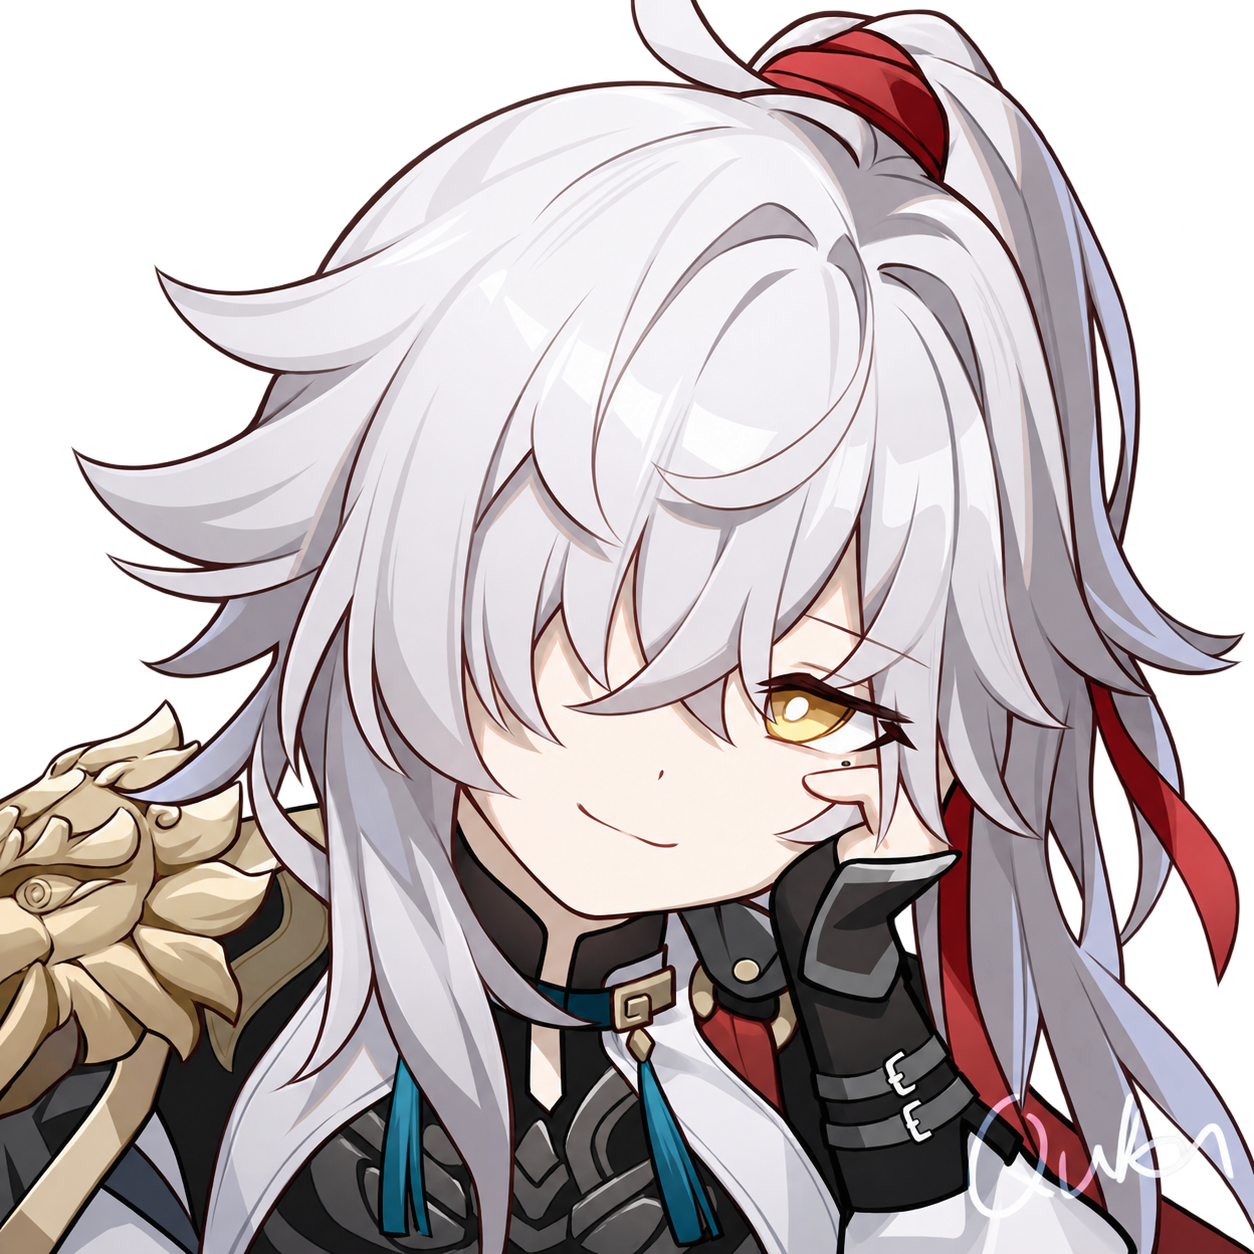
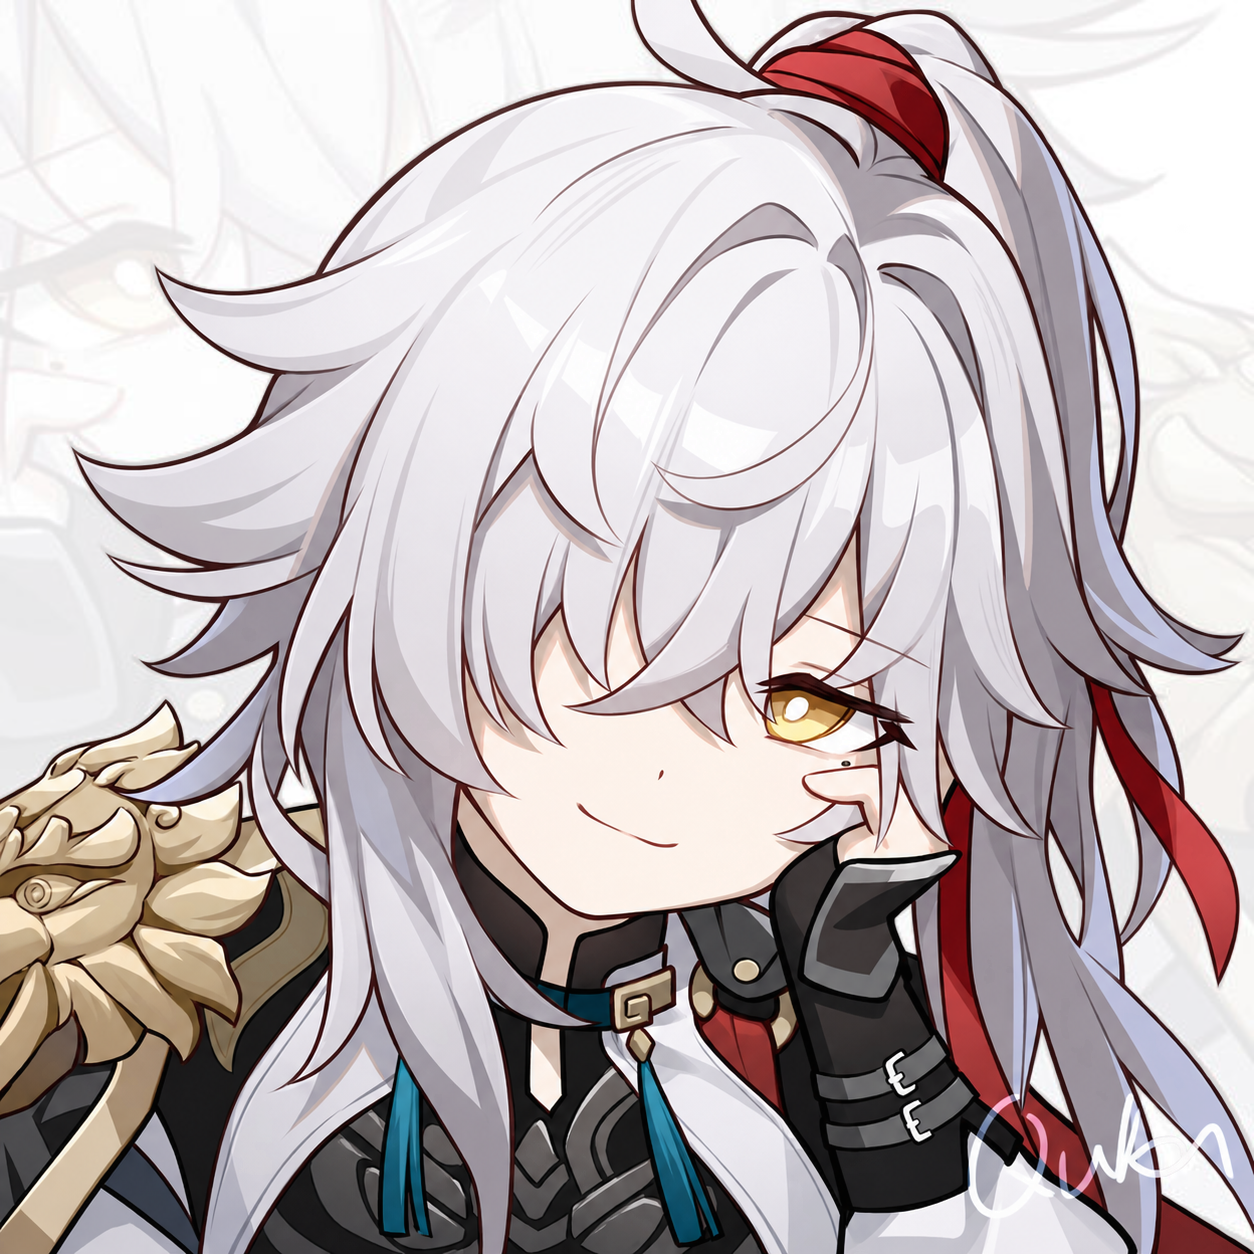
chore: 清理多余素材

diff --git a/tests/test_app/test_theme_switching.py b/tests/test_app/test_theme_switching.py
@@ -4,13 +4,11 @@ from pathlib import Path
 from unittest.mock import Mock
 
 import pytest
-from PySide6.QtCore import QPoint, Qt
-from PySide6.QtGui import QIcon, QImage, QPainter, QPixmap, QRegion
-from PySide6.QtWidgets import QWidget
+from PySide6.QtCore import Qt
+from PySide6.QtGui import QIcon, QPixmap
 from qfluentwidgets import Theme, isDarkTheme, setTheme
 
-from app.common.theme_assets import portrait_artwork, portrait_texture, themed_icon_path
-from app.components.portrait_label import PortraitLabel
+from app.common.theme_assets import portrait_artwork
 from module.config import cfg
 from tests.test_app.test_language_switch import window, switch_language
 
@@ -134,12 +132,21 @@ def window_size_case(request, monkeypatch):
 @pytest.mark.parametrize('window_size_case', [
     ('size', None, 640), ('size', 680, 680), ('none', None, 640),
 ], indirect=True)
-def test_default_size_memory_and_scrollable_navigation(window_size_case, window):
+def test_default_size_memory_and_navigation(window_size_case, window):
     assert window.height() == window_size_case
     assert window.minimumHeight() == 640
     navigation = window.navigationInterface
-    for route in ('homeInterface', 'helpInterface', 'warpInterface', 'toolsInterface', 'workflowInterface'):
-        assert navigation.widget(route).parentWidget() is navigation.scrollWidget
+    rectangles = []
+    for route in ('homeInterface', 'helpInterface', 'warpInterface', 'toolsInterface', 'workflowInterface',
+                  'startGameButton', 'logInterface', 'avatar', 'settingInterface'):
+        widget = navigation.widget(route)
+        rectangle = widget.rect().translated(widget.mapTo(navigation, widget.rect().topLeft()))
+        assert navigation.rect().contains(rectangle), route
+        # Upstream's compact layout permits touching/overlapping button edges;
+        # each entry must remain fully visible with an unobstructed click center.
+        assert not any(rectangle.contains(other.center()) or other.contains(rectangle.center())
+                       for other in rectangles), route
+        rectangles.append(rectangle)
     assert 'themeButton' not in navigation.items
 
 
@@ -153,8 +160,7 @@ def test_every_task_portrait_and_window_icon_follow_dark_theme(window, qtbot):
     for (widget, *_), original, action in zip(page._task_cards, originals, actions):
         dark = widget.iconWidget.pixmap().toImage()
         assert dark != original
-        assert dark.hasAlphaChannel() and dark.pixelColor(0, 0).alpha() < 20
-        assert not widget.iconWidget._pattern.isNull()
+        assert dark.hasAlphaChannel() and dark.pixelColor(0, 0).alpha() < 40
         assert widget.action is action
     assert window.windowIcon().pixmap(32, 32).toImage().pixelColor(0, 0).alpha() == 0
     assert window.windowIcon().pixmap(32, 32).toImage() == QIcon('./assets/logo/March7th.ico').pixmap(32, 32).toImage()
@@ -162,51 +168,23 @@ def test_every_task_portrait_and_window_icon_follow_dark_theme(window, qtbot):
         './assets/logo/March7th.ico').pixmap(window.titleBar.iconLabel.size()).toImage()
     page.refreshBackendTasks()
     for widget, *_ in page._task_cards:
-        assert not widget.iconWidget._pattern.isNull()
-        assert widget.iconWidget.pixmap().toImage().pixelColor(0, 0).alpha() < 20
+        assert widget.iconWidget.pixmap().toImage().pixelColor(0, 0).alpha() < 40
     setTheme(Theme.LIGHT)
     assert [widget.iconWidget.pixmap().toImage() for widget, *_ in page._task_cards] == originals
-    assert all(widget.iconWidget._pattern.isNull() for widget, *_ in page._task_cards)
     assert window.titleBar.iconLabel.pixmap().toImage() == QIcon(
         './assets/logo/March7th.ico').pixmap(window.titleBar.iconLabel.size()).toImage()
 
 
-def test_pattern_keeps_coordinates_and_original_tones_without_opaque_background(qtbot):
-    """Keep a dark marker darker than the light field, without moving it."""
-    reference = QPixmap(100, 100)
-    reference.fill(Qt.GlobalColor.white)
-    painter = QPainter(reference)
-    painter.fillRect(10, 20, 20, 20, Qt.GlobalColor.gray)
-    painter.end()
-    foreground = QPixmap(100, 100)
-    foreground.fill(Qt.GlobalColor.transparent)
-    label = PortraitLabel()
-    qtbot.addWidget(label)
-    label.resize(100, 100)
-    label.setArtwork(foreground, portrait_texture(reference))
-    rendered = QImage(100, 100, QImage.Format.Format_ARGB32_Premultiplied)
-    rendered.fill(Qt.GlobalColor.transparent)
-    painter = QPainter(rendered)
-    label.render(painter, QPoint(), QRegion(), QWidget.RenderFlag.DrawChildren)
-    painter.end()
-    marker = rendered.pixelColor(15, 25)
-    background = rendered.pixelColor(0, 0)
-    assert 0 < marker.alpha() <= 15 and 0 < background.alpha() <= 15
-    assert marker.lightness() < background.lightness()
-    assert rendered.pixelColor(35, 25) == background
-    assert rendered.pixelColor(15, 45) == background
-
-
-
-def test_bundled_artwork_is_loadable_and_cutouts_are_transparent(qtbot):
+def test_bundled_artwork_is_loadable_and_baked_backgrounds_are_translucent(qtbot):
     portraits = [f'./assets/app/images/{name}.jpg' for name in (
         'March7th', 'JingYuan', 'Yanqing', 'Herta', 'SilverWolf', 'Bronya',
     )]
     for source in portraits:
         original = QPixmap(source)
-        dark = QPixmap(themed_icon_path(source, True))
+        dark = portrait_artwork(source, True)
         assert not original.isNull(), source
         assert not dark.isNull() and dark.hasAlphaChannel(), source
+        assert 0 < dark.toImage().pixelColor(0, 0).alpha() < 40, source
     icon = QIcon('./assets/logo/March7th.ico')
     assert not icon.isNull()
     assert not icon.pixmap(32, 32).isNull()
@@ -220,15 +198,12 @@ def test_custom_portrait_with_builtin_filename_is_not_replaced(qtbot, tmp_path):
     custom = QPixmap(32, 32)
     custom.fill(Qt.GlobalColor.red)
     assert custom.save(custom_path)
-    assert themed_icon_path(custom_path, True) == custom_path
-    assert themed_icon_path(custom_path, False) == custom_path
-    foreground, texture = portrait_artwork(custom_path, True)
+    assert portrait_artwork(custom_path, False).toImage().pixelColor(0, 0).red() > 250
+    foreground = portrait_artwork(custom_path, True)
     assert foreground.toImage().pixelColor(0, 0).red() > 250
-    assert texture.isNull()
     custom.fill(Qt.GlobalColor.blue)
     assert custom.save(custom_path)
     timestamp = Path(custom_path).stat()
     os.utime(custom_path, (timestamp.st_atime, timestamp.st_mtime + 2))
-    reloaded, texture = portrait_artwork(custom_path, True)
+    reloaded = portrait_artwork(custom_path, True)
     assert reloaded.toImage().pixelColor(0, 0).blue() > 250
-    assert texture.isNull()

diff --git a/app/common/theme_assets.py b/app/common/theme_assets.py
@@ -1,8 +1,8 @@
-"""Transparent dark portraits with textures from the original artwork."""
+"""Load bundled portraits with their backgrounds already baked into the images."""
 from functools import lru_cache
 from pathlib import Path
 
-from PySide6.QtGui import QImage, QPainter, QPixmap
+from PySide6.QtGui import QPixmap
 
 
 
@@ -13,33 +13,14 @@ _DARK_PORTRAITS = {
 }
 
 
-def themed_icon_path(path, dark):
-    if not path or not dark:
-        return path
-    return _DARK_PORTRAITS.get(str(Path(path).resolve()), path)
-
-
-def portrait_texture(reference):
-    """Strengthen the original colours without moving or inverting the artwork."""
-    pattern = reference.toImage().convertToFormat(QImage.Format.Format_ARGB32_Premultiplied)
-    painter = QPainter(pattern)
-    painter.setCompositionMode(QPainter.CompositionMode.CompositionMode_Multiply)
-    for _ in range(7):
-        painter.drawPixmap(0, 0, reference)
-    painter.end()
-    return QPixmap.fromImage(pattern)
-
-
 @lru_cache(maxsize=12)  # Six bundled portraits, each with a light/dark variant.
-def _builtin_portrait_artwork(source, dark):
-    foreground = QPixmap(themed_icon_path(source, dark))
-    texture = portrait_texture(QPixmap(source)) if dark else QPixmap()
-    return foreground, texture
+def _builtin_portrait_artwork(path):
+    return QPixmap(path)
 
 
 def portrait_artwork(path, dark):
     source = str(Path(path).resolve()) if path else path
     if source in _DARK_PORTRAITS:
-        return _builtin_portrait_artwork(source, dark)
+        return _builtin_portrait_artwork(_DARK_PORTRAITS[source] if dark else source)
     # Custom files are re-read when cards are rebuilt, including edits in place.
-    return QPixmap(path), QPixmap()
+    return QPixmap(path)

diff --git a/app/main_window.py b/app/main_window.py
@@ -355,13 +355,12 @@ class MainWindow(MSFluentWindow):
         self.logInterface.autoplotToggleRequested.connect(self._onAutoplotToggleRequested)
 
     def initNavigation(self):
-        # 页面入口可滚动，为最小窗口尺寸下的底部固定按钮保留空间。
-        self.addSubInterface(self.homeInterface, FIF.HOME, tr('主页'), position=NavigationItemPosition.SCROLL)
-        self.addSubInterface(self.helpInterface, FIF.BOOK_SHELF, tr('帮助'), position=NavigationItemPosition.SCROLL)
+        self.addSubInterface(self.homeInterface, FIF.HOME, tr('主页'))
+        self.addSubInterface(self.helpInterface, FIF.BOOK_SHELF, tr('帮助'))
         # self.addSubInterface(self.changelogInterface, FIF.UPDATE, '更新日志')
-        self.addSubInterface(self.warpInterface, FIF.SHARE, tr('抽卡记录'), position=NavigationItemPosition.SCROLL)
-        self.addSubInterface(self.toolsInterface, FIF.DEVELOPER_TOOLS, tr('工具箱'), position=NavigationItemPosition.SCROLL)
-        self.addSubInterface(self.workflowInterface, FIF.CODE, tr('流程编排'), position=NavigationItemPosition.SCROLL)
+        self.addSubInterface(self.warpInterface, FIF.SHARE, tr('抽卡记录'))
+        self.addSubInterface(self.toolsInterface, FIF.DEVELOPER_TOOLS, tr('工具箱'))
+        self.addSubInterface(self.workflowInterface, FIF.CODE, tr('流程编排'))
 
         self.navigationInterface.addWidget(
             'startGameButton',

diff --git a/app/card/samplecardview1.py b/app/card/samplecardview1.py
@@ -4,7 +4,6 @@ from PySide6.QtGui import QAction, QPixmap
 
 from qfluentwidgets import RoundMenu, IconWidget, FlowLayout, CardWidget, InfoBarIcon, TeachingTip, TeachingTipTailPosition, InfoBar, InfoBarPosition
 from ..common.style_sheet import StyleSheet
-from ..components.portrait_label import PortraitLabel
 from module.config import cfg
 from module.localization import tr
 from module.logger import log
@@ -22,7 +21,7 @@ class SampleCard(CardWidget):
 
         self.action = action
 
-        self.iconWidget = PortraitLabel(self)
+        self.iconWidget = QLabel(parent)
         self.iconWidget.setPixmap(QPixmap(icon))
         self.iconWidget.setScaledContents(True)
 

diff --git a/app/home_interface.py b/app/home_interface.py
@@ -193,7 +193,7 @@ class HomeInterface(ScrollArea):
 
     def refreshTheme(self):
         for widget, original_icon in self._task_cards:
-            widget.iconWidget.setArtwork(*portrait_artwork(original_icon, isDarkTheme()))
+            widget.iconWidget.setPixmap(portrait_artwork(original_icon, isDarkTheme()))
 
     def _build_card_action(self, card_data):
         """根据卡片配置数据构建动作"""

diff --git a/assets/app/images/dark/README.md b/assets/app/images/dark/README.md
@@ -1,14 +1,18 @@
 # 深色头像
 
-本目录的六张任务头像（March7th、JingYuan、Yanqing、Herta、SilverWolf、Bronya）是原始任务头像的透明人物 PNG 版本。浅色主题继续使用原来的带纹理 JPG；原始六张头像未覆盖。
+本目录的六张任务头像（March7th、JingYuan、Yanqing、Herta、SilverWolf、Bronya）均为已合成的静态 PNG：人物和淡纹保存在同一张图片中。浅色主题继续使用原来的带纹理 JPG；原始六张头像未覆盖。
 
-深色纹理由 `app/common/theme_assets.py` 参考对应的浅色原图生成，通过 Qt Multiply 混合增强原有淡纹颜色；`app/components/portrait_label.py` 再以 4% 不透明度叠在卡片底色上，最后覆盖正常人物。内置头像及其纹理最多缓存 12 组，避免主题切换时重复解码或混合整排图片。保留原图的色彩方向和明暗关系，不反转亮度，避免把浅色皮肤变成深色；卡片的 Mica 与悬停色仍可透出。纹理与浅色原图共用完整图像矩形，大小、位置、裁切完全一致，不再另行缩放或偏移人物副本。原始文件不重写；用户自选图片不进入内置缓存，重建卡片时重新读取。
+静态图片由此前已确认的 Qt 绘制结果导出：对应浅色原图经过 Multiply 增强后，以 15% 不透明度铺在透明画布上，再覆盖人物。保留原图的色彩方向和明暗关系，纹理与浅色原图的大小、位置、裁切一致；半透明淡纹让卡片的 Mica 底色和悬停效果继续透出。运行时只通过普通 `QLabel` 加载整张 PNG，不再生成纹理或分层绘制，也不修改素材文件。
+
+`app/common/theme_assets.py` 最多缓存 12 张内置深浅色头像，避免切换主题时重复解码。用户自选图片不进入内置缓存，重建卡片时重新读取。
 
 普通深浅色模式的标题栏、任务栏和托盘均使用原版白底三月七 `assets/logo/March7th.ico`，切换主题不刷新图标。参见 [应用图标说明](../../../logo/README.md)。
 
 素材以项目原始任务头像和 `assets/logo/March7th.ico` 为参考，使用 OpenAI 图像生成工具编辑。角色及原美术权利归原权利方所有；此处记录素材来源，不另行声明为项目代码许可证。
 
-## 任务头像统一编辑提示词
+## 原始人物抠图提示词
+
+以下提示词用于制作合成前的人物层；当前 PNG 已包含人物和淡纹。
 
 ```text
 Use case: background-extraction. Edit target: the attached square task-card portrait. Remove ONLY the background: the white field and pale enlarged duplicate character line-art behind the main foreground character. Output a genuine transparent RGBA PNG, in the SAME square composition and SAME framing, character filling the canvas just as in the input. Preserve the main foreground character EXACTLY: pose, facial expression, eye colors, hair color and all fine hair strands, costume, accessories, lighting, cel shading, linework, proportions, crop, and existing artist signature on the foreground. This is precise background removal, no redesign or repainting. Do NOT remove any white hair, white skin, white clothing or white highlights from the foreground. Preserve semitransparent anti-aliased edges, no white matte/fringe, no black background, no shadow, no new text, no border, no decorative particles.
